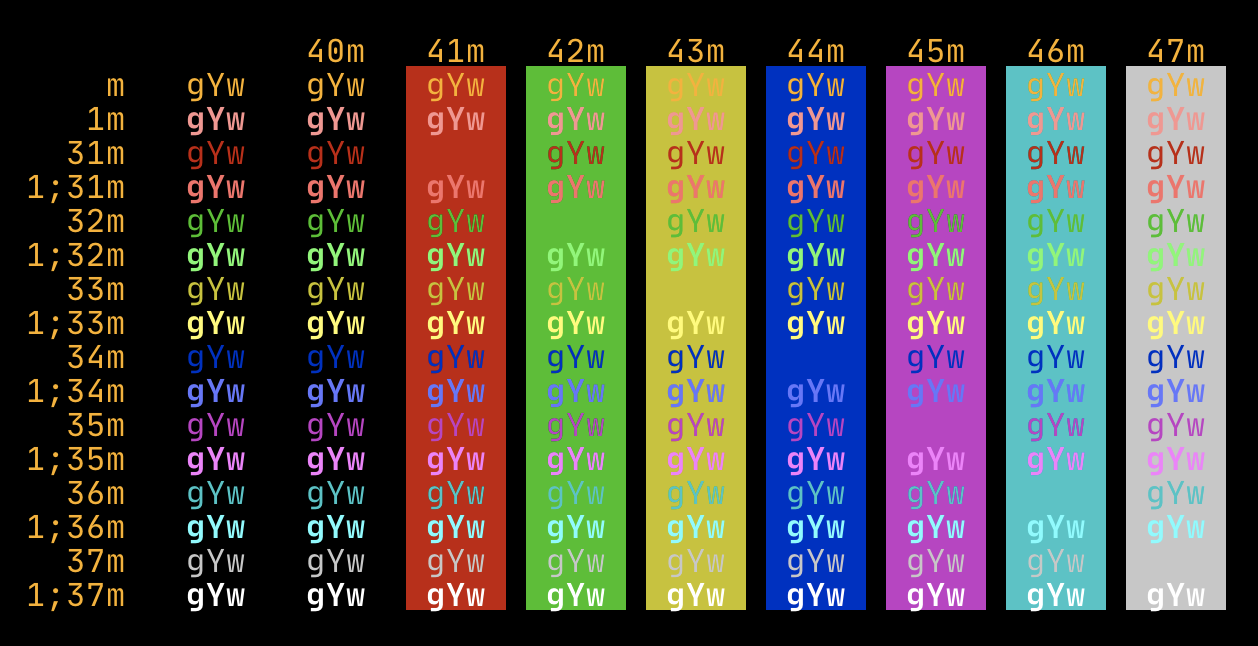
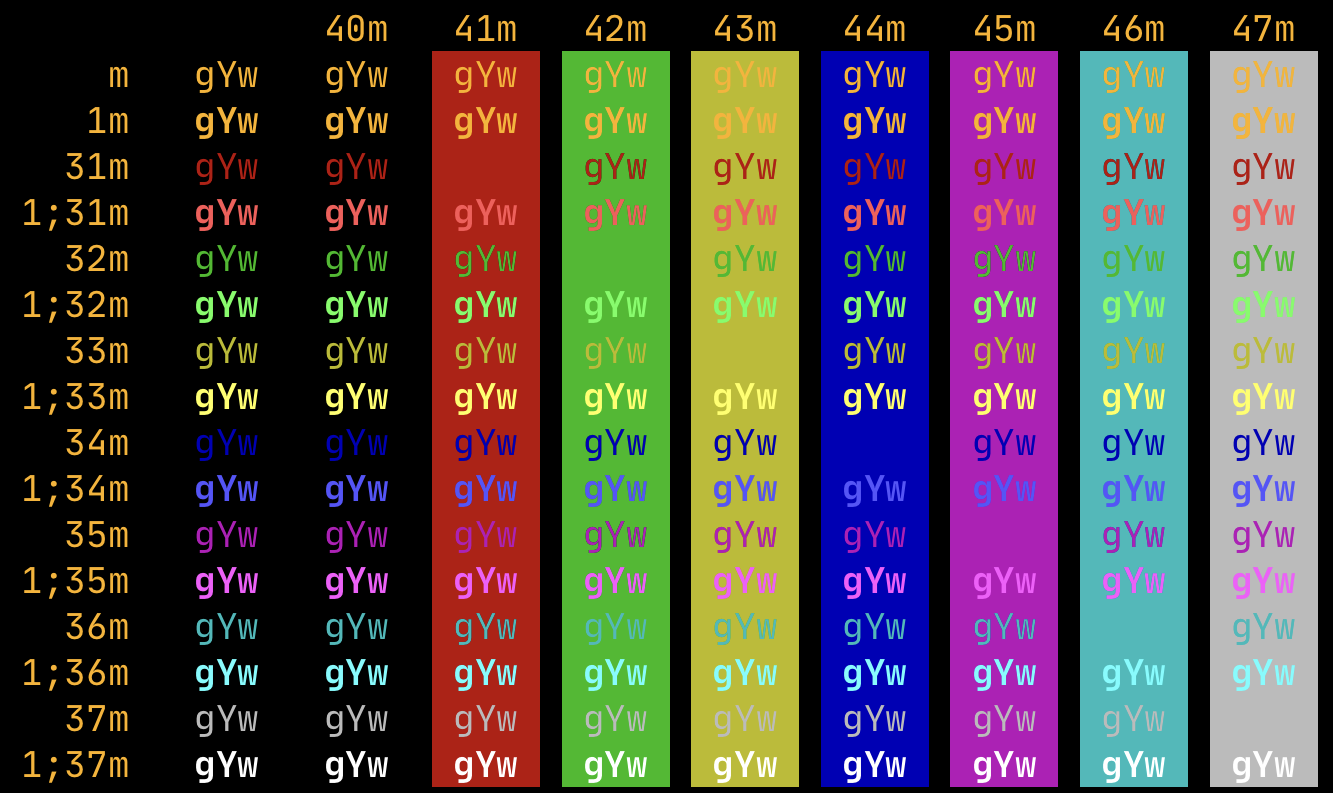
Tweaked cursor color and opacity so text under cursor could be seen. Default colors are now taken from iTerm 2 defaults. Added blinking cursor option, disabled.

diff --git a/themes/Microterm.js b/themes/Microterm.js
@@ -1,26 +1,34 @@
+// iTerm 2 Default ANSI Colors
 black       = '#000000';
-red         = '#F25A00'; // red
-green       = '#00FF00'; // green
-yellow      = '#9F9F8F'; // yellow
-blue        = '#66D9EF'; // blue
-magenta     = '#AE81FF'; // pink
-cyan        = '#28C6E4'; // cyan
-white       = '#ffffff'; // light gray
-lightBlack  = '#C2E8FF'; // medium gray
-lightRed    = '#FD971F'; // red
-lightGreen  = '#529B2F'; // green
-lightYellow = '#9F9F8F'; // yellow
-lightBlue   = '#66D9EF'; // blue
-lightMagenta= '#F92672'; // pink
-lightCyan   = '#28C6E4'; // cyan
-lightWhite  = '#E0E0E0'; // white
+red         = '#BB0000';
+green       = '#00BB00';
+yellow      = '#BBBB00';
+blue        = '#0000BB';
+magenta     = '#BB00BB';
+cyan        = '#00BBBB';
+white       = '#BBBBBB'; // light gray
+lightBlack  = '#555555'; // medium gray
+lightRed    = '#FF5555';
+lightGreen  = '#55FF55';
+lightYellow = '#FFFF55';
+lightBlue   = '#5555FF';
+lightMagenta= '#FF55FF';
+lightCyan   = '#55FFFF';
+lightWhite  = '#FFFFFF'; // white
+
+// jdwhite Colors
+amber       = '#FFB100';
 
 t.prefs_.set('color-palette-overrides',
-                 [ black , red     , green  , yellow,
-                  blue     , magenta , cyan   , white,
-                  lightBlack   , lightRed  , lightGreen , lightYellow,
-                  lightBlue    , lightMagenta  , lightCyan  , lightWhite ]);
+                 [ black, red, green, yellow,
+                   blue, magenta, cyan, white,
+                   lightBlack, lightRed, lightGreen, lightYellow,
+                   lightBlue, lightMagenta, lightCyan, lightWhite ]);
 
-t.prefs_.set('cursor-color', '#FFB100'); // Amber
-t.prefs_.set('foreground-color', '#FFB100'); // Amber
+// Set cursor-color to green (arbitrarily) and 50% opacity
+// in order to see text under cursor.
+t.prefs_.set('cursor-color', 'rgba(0,255,0,0.5'); // Green, 50% opacity
+t.prefs_.set('cursor-blink', false);
+
+t.prefs_.set('foreground-color', amber);
 t.prefs_.set('background-color', black);
